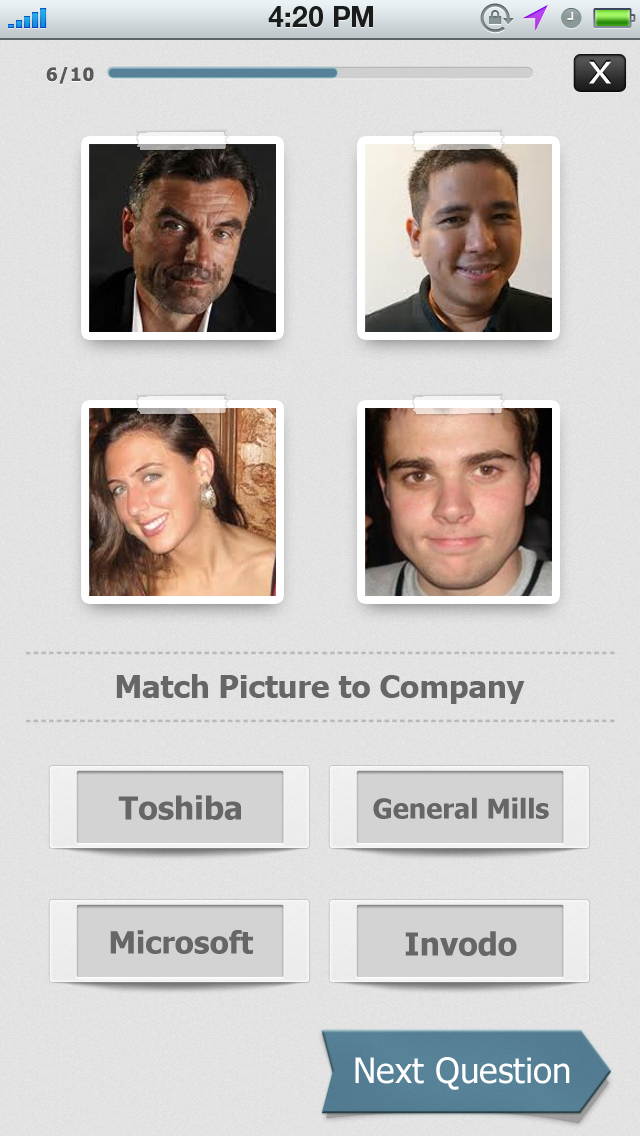
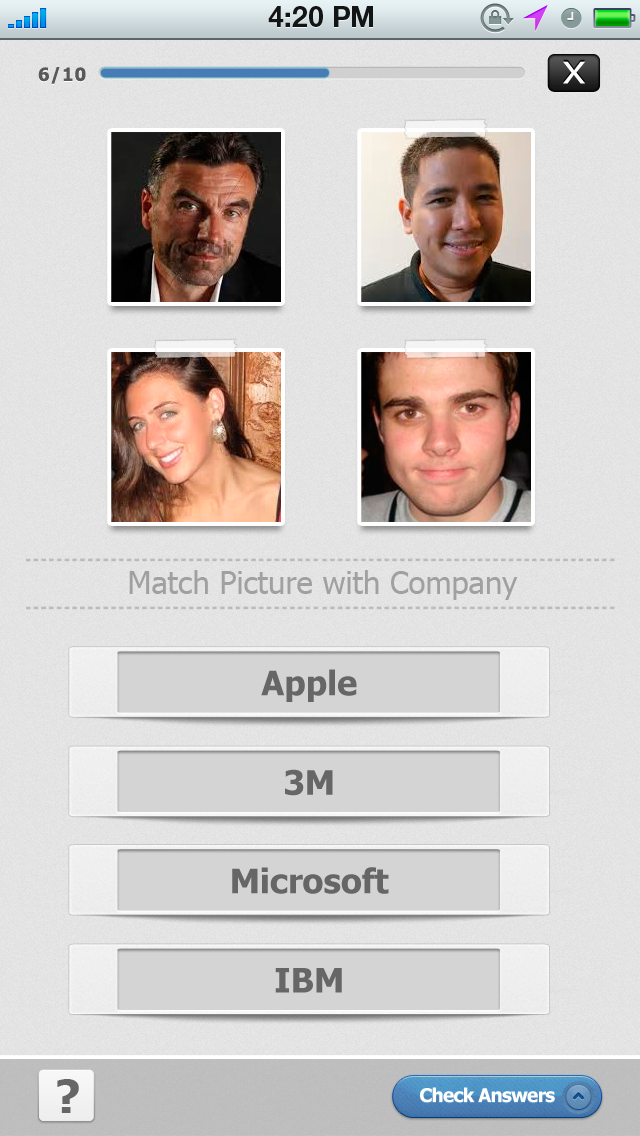
Integrated some new matching imagery and made layout changes

diff --git a/QuizIn/QuizIn/Source/Classes/UI/Screens/Quizzes/Matching/QIMatchingQuizView.m b/QuizIn/QuizIn/Source/Classes/UI/Screens/Quizzes/Matching/QIMatchingQuizView.m
@@ -219,7 +219,7 @@
     
    //[self.answerConstraints addObject:[NSLayoutConstraint constraintWithItem:_progressView attribute:NSLayoutAttributeBottom relatedBy:NSLayoutRelationEqual toItem:_questionView attribute:NSLayoutAttributeTop multiplier:1.0f constant:10.0f]];
     
-    NSString *vQuestionAnswerView = @"V:[_progressView]-(-10)-[_questionView(<=200)]-2-[_divider(==2)][_answerView(>=220)]|";
+    NSString *vQuestionAnswerView = @"V:[_progressView]-(>=-10,<=10)-[_questionView(<=200)]-(>=2,<=10)-[_divider(==2)]-(>=0,<=4)-[_answerView(>=180)]-(>=45,<=75)-|";
     NSArray *vQuestionAnswerViewConstraints =
     [NSLayoutConstraint constraintsWithVisualFormat:vQuestionAnswerView
                                             options:NSLayoutFormatAlignAllCenterX
@@ -305,7 +305,7 @@
       [self.answerConstraints addObject:[NSLayoutConstraint constraintWithItem:button attribute:NSLayoutAttributeWidth relatedBy:NSLayoutRelationEqual toItem:nil attribute:NSLayoutAttributeNotAnAttribute multiplier:1.0f constant:250.0f]];
     }
     
-    NSString *vAnswerButtonsView = @"V:|[_answerButtons0(==_answerButtons0)][_answerButtons1(==_answerButtons0)][_answerButtons2(==_answerButtons0)][_answerButtons3(==_answerButtons0)]";
+    NSString *vAnswerButtonsView = @"V:|[_answerButtons0(==_answerButtons0)][_answerButtons1(==_answerButtons0)][_answerButtons2(==_answerButtons0)][_answerButtons3(==_answerButtons0)]|";
     
     NSArray *vAnswerButtonConstraints =
     [NSLayoutConstraint constraintsWithVisualFormat:vAnswerButtonsView
@@ -586,20 +586,20 @@
 -(NSMutableArray *)newQuestionColorImages{
   UIEdgeInsets insets = UIEdgeInsetsMake(16.0f, 16.0f, 16.0f, 16.0f);
   return [NSMutableArray arrayWithObjects:
-          [[UIImage imageNamed:@"match_pictureholder_blue"] resizableImageWithCapInsets:insets],
-          [[UIImage imageNamed:@"match_pictureholder_green"] resizableImageWithCapInsets:insets],
-          [[UIImage imageNamed:@"match_pictureholder_red"] resizableImageWithCapInsets:insets],
-          [[UIImage imageNamed:@"match_pictureholder_yellow"] resizableImageWithCapInsets:insets],
+          [[UIImage imageNamed:@"match_pictureholder_bluev1"] resizableImageWithCapInsets:insets],
+          [[UIImage imageNamed:@"match_pictureholder_bluev2"] resizableImageWithCapInsets:insets],
+          [[UIImage imageNamed:@"match_pictureholder_bluev3"] resizableImageWithCapInsets:insets],
+          [[UIImage imageNamed:@"match_pictureholder_bluev4"] resizableImageWithCapInsets:insets],
           nil];
 }
 
 -(NSMutableArray *)newAnswerColorImages{
   UIEdgeInsets insets = UIEdgeInsetsMake(15.0f, 18.0f, 15.0f, 18.0f);
   return [NSMutableArray arrayWithObjects:
-          [[UIImage imageNamed:@"match_answerbox_blue"] resizableImageWithCapInsets:insets],
-          [[UIImage imageNamed:@"match_answerbox_green"] resizableImageWithCapInsets:insets],
-          [[UIImage imageNamed:@"match_answerbox_red"] resizableImageWithCapInsets:insets],
-          [[UIImage imageNamed:@"match_answerbox_yellow"] resizableImageWithCapInsets:insets],
+          [[UIImage imageNamed:@"match_answerbox_bluev1"] resizableImageWithCapInsets:insets],
+          [[UIImage imageNamed:@"match_answerbox_bluev2"] resizableImageWithCapInsets:insets],
+          [[UIImage imageNamed:@"match_answerbox_bluev3"] resizableImageWithCapInsets:insets],
+          [[UIImage imageNamed:@"match_answerbox_bluev4"] resizableImageWithCapInsets:insets],
           nil];
 }
 

diff --git a/QuizIn/QuizIn/Source/Classes/UI/Screens/Quizzes/BusinessCard/QIBusinessCardQuizView.m b/QuizIn/QuizIn/Source/Classes/UI/Screens/Quizzes/BusinessCard/QIBusinessCardQuizView.m
@@ -332,9 +332,10 @@
                                                                _answerSuperView,
                                                                _answerName,
                                                                _answerTitle,
-                                                               _answerCompany);
+                                                               _answerCompany,
+                                                               _checkAnswersView);
     
-    NSString *vAnswerSuperView = @"V:[_businessCardView][_divider(==2)][_answerSuperView]";
+    NSString *vAnswerSuperView = @"V:[_businessCardView]-(>=0,<=15)-[_divider(==2)]-(>=0,<=15)-[_answerSuperView]-(>=45,<=75)-|";
     NSArray *vAnswerSuperViewConstraints =
     [NSLayoutConstraint constraintsWithVisualFormat:vAnswerSuperView
                                             options:0

diff --git a/QuizIn/QuizIn/Source/Classes/UI/Screens/Quizzes/MultipleChoice/QIMultipleChoiceQuizView.m b/QuizIn/QuizIn/Source/Classes/UI/Screens/Quizzes/MultipleChoice/QIMultipleChoiceQuizView.m
@@ -377,7 +377,7 @@
 - (UIButton *)newAnswerButtonWithTitle:(NSString *)title {
   UIButton *answerButton = [UIButton buttonWithType:UIButtonTypeCustom];
   [answerButton setTitle:title forState:UIControlStateNormal];
-  answerButton.titleLabel.font = [QIFontProvider fontWithSize:16.0f style:Bold];
+  answerButton.titleLabel.font = [QIFontProvider fontWithSize:13.0f style:Bold];
   answerButton.titleLabel.adjustsFontSizeToFitWidth = YES;
   answerButton.titleLabel.adjustsLetterSpacingToFitWidth = YES;
   [answerButton setTitleColor:[UIColor colorWithWhite:0.33f alpha:1.0f] forState:UIControlStateNormal];

diff --git a/QuizIn/QuizIn/Source/Classes/UI/Screens/Quizzes/BusinessCard/BusinessCardAnswer/QIBusinessCardAnswerView.m b/QuizIn/QuizIn/Source/Classes/UI/Screens/Quizzes/BusinessCard/BusinessCardAnswer/QIBusinessCardAnswerView.m
@@ -253,7 +253,7 @@
   //TODO Use Attributed Text to make this a 2-line centered UILabel
   [answer setTranslatesAutoresizingMaskIntoConstraints:NO];
   [answer setBackgroundColor:[UIColor clearColor]];
-  [answer setFont:[QIFontProvider fontWithSize:16.0f style:Bold]];
+  [answer setFont:[QIFontProvider fontWithSize:13.0f style:Bold]];
   [answer setTextColor:[UIColor colorWithWhite:.33f alpha:1.0f]];
   [answer setAdjustsLetterSpacingToFitWidth:YES];
   [answer setAdjustsFontSizeToFitWidth:YES];
